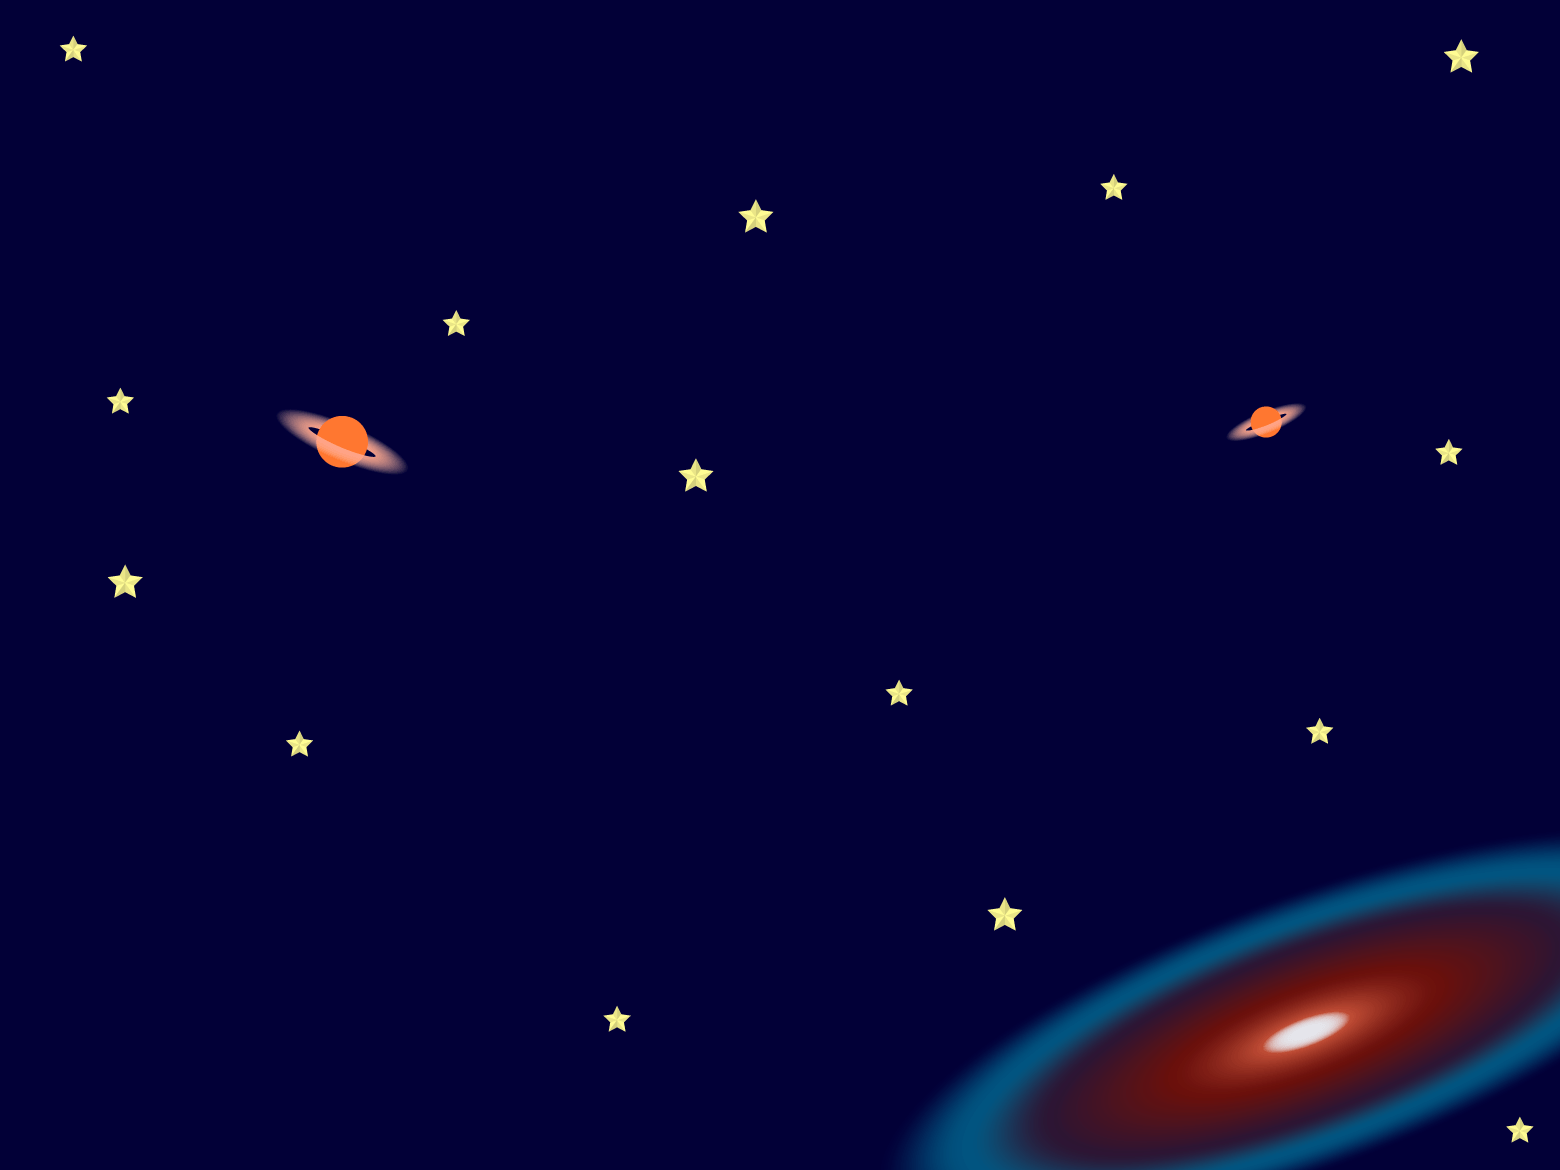
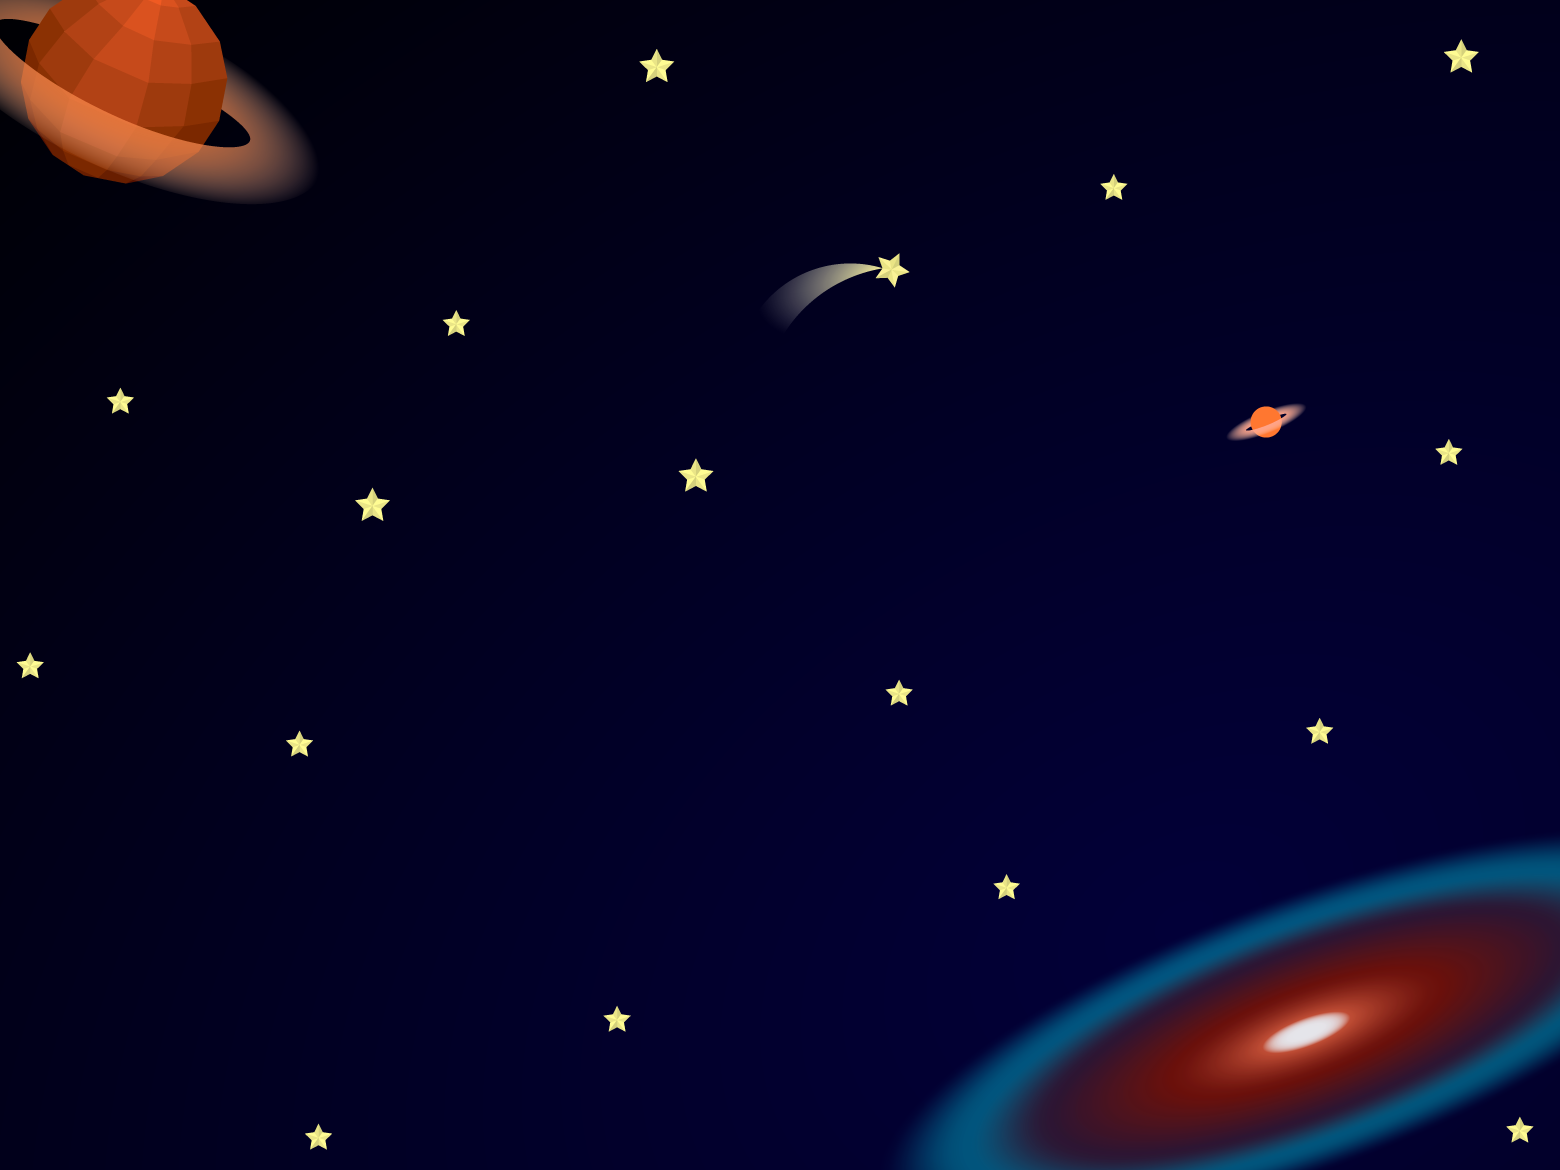
Add updated background and cosmic teapot to creating elements level

diff --git a/app/l10n-templates/levels/creating-elements.html b/app/l10n-templates/levels/creating-elements.html
@@ -27,6 +27,8 @@
         </div>
       </div>
 
+      <div class="cosmic-teapot" style="bottom: -250px; right: -60px" data-ignore></div>
+
       <div class="ledge"></div>
       <a href="#/play/levels/headings.html" class="portal" style="right: 10px; bottom: 370px;"></a>
 
